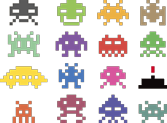
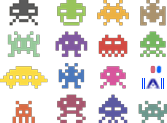
fix bug and add score

Changed region(s): [[0.8084, 0.6098, 1.0, 0.7317], [0.8982, 0.5122, 0.988, 0.6098]]

diff --git a/dist/scripts/scripts.js b/dist/scripts/scripts.js
@@ -8,17 +8,28 @@ require('./game/main');
 var Bullet;
 
 Bullet = (function() {
-  function Bullet(pos, gravity) {
+  function Bullet(pos, gravity, where) {
+    var iconEnemyBullet, iconPlayerBullet;
     this.pos = pos;
     this.gravity = gravity;
     this.size = {
       width: 3,
       height: 6
     };
-    this.icon = {
+    iconEnemyBullet = {
       x: 152,
       y: 65
     };
+    iconPlayerBullet = {
+      x: 157,
+      y: 65
+    };
+    if (where === "Player") {
+      this.icon = iconPlayerBullet;
+    }
+    if (where === "Enemy") {
+      this.icon = iconEnemyBullet;
+    }
   }
 
   Bullet.prototype.update = function() {
@@ -44,7 +55,7 @@ Bullet = require("./bullet");
 
 Enemy = (function() {
   function Enemy(data, pos, size, ind) {
-    var icon, length, randomIcons;
+    var icon, randomIcons;
     this.data = data;
     this.pos = pos;
     this.size = size;
@@ -53,9 +64,6 @@ Enemy = (function() {
     this.speed = 1;
     randomIcons = [
       icon = {
-        x: 9,
-        y: 0
-      }, icon = {
         x: 57,
         y: 0
       }, icon = {
@@ -78,8 +86,7 @@ Enemy = (function() {
         y: 30
       }
     ];
-    length = Math.floor(Math.random() * randomIcons.length);
-    this.icon = randomIcons[length];
+    this.icon = randomIcons[Math.floor(Math.random() * randomIcons.length)];
   }
 
   Enemy.prototype.update = function() {
@@ -102,12 +109,12 @@ Enemy = (function() {
     if (Math.random() < 0.04 && !this.isLower(this)) {
       bulletCoors = {
         x: this.pos.x + this.size.width / 2,
-        y: this.pos.y + this.size.height / 2 + this.size.height / 2
+        y: this.pos.y + this.size.height / 2 + this.size.height / 2 + 1
       };
       bullet = new Bullet(bulletCoors, {
         speed: 3,
         dir: true
-      });
+      }, 'Enemy');
       return this.data.objects.push(bullet);
     }
   };
@@ -121,11 +128,15 @@ module.exports = Enemy;
 
 },{"./bullet":2}],4:[function(require,module,exports){
 'use strict';
-var Enemy, InitGame, Player;
+var Bullet, Enemy, InitGame, Player, Score;
 
 Player = require("./player");
 
 Enemy = require('./enemy');
+
+Score = require("./score");
+
+Bullet = require("./bullet");
 
 InitGame = (function() {
   function InitGame(screen) {
@@ -136,6 +147,7 @@ InitGame = (function() {
       y: this.screen.height
     };
     this.objects = [];
+    this.stopAnimation = false;
     this.icons = new Image;
     this.icons.src = './images/icons.png';
   }
@@ -143,17 +155,31 @@ InitGame = (function() {
   InitGame.prototype.start = function() {
     return this.icons.onload = (function(_this) {
       return function() {
-        _this.objects.push(new Player(_this));
-        _this.addEnemies();
+        _this.addObjects();
         return _this.tick();
       };
     })(this);
   };
 
+  InitGame.prototype.addObjects = function() {
+    this.objects.push(new Score(this));
+    this.objects.push(new Player(this));
+    return this.addEnemies();
+  };
+
   InitGame.prototype.tick = function() {
-    this.update();
-    this.draw();
-    return requestAnimationFrame(this.tick.bind(this));
+    if (!this.stopAnimation) {
+      this.update();
+      this.draw();
+      return requestAnimationFrame(this.tick.bind(this));
+    } else {
+      return setTimeout((function(_this) {
+        return function() {
+          console.log('stop');
+          return _this.tick();
+        };
+      })(this), 100);
+    }
   };
 
   InitGame.prototype.clean = function() {
@@ -165,7 +191,15 @@ InitGame = (function() {
     notCollision = (function(_this) {
       return function(o1) {
         return _this.objects.filter(function(o2) {
-          return _this.collision(o1, o2);
+          var coll;
+          coll = _this.collision(o1, o2);
+          if (coll && o1 instanceof Enemy) {
+            _this.objects[0].up();
+          }
+          if (coll && o1 instanceof Player) {
+            _this.screen.removeEventListener('click', o1.shoot);
+          }
+          return coll;
         }).length === 0;
       };
     })(this);
@@ -178,11 +212,13 @@ InitGame = (function() {
     });
     if (!win) {
       alert("Поздравляю!!! Вы победили Инопланетных Захватчиков! Но радары засекли еще одну волну! Нажми \"Ok\" чтобы разгромить врага!");
-      location.reload(true);
+      this.addEnemies();
     }
     if (!lose) {
-      alert("К сожалению ваш корабль был разбить суровым натиском инопланетных захватчиков но ты успел эвакуироваться на базу где тебя ждет новый корабль! Нажми \"Ok\" чтобы дать отпор врагу еще раз!");
-      location.reload(true);
+      this.stopAnimation = true;
+      this.objects = [];
+      this.addObjects();
+      this.stopAnimation = false;
     }
     return this.objects.forEach((function(_this) {
       return function(item, i) {
@@ -201,9 +237,16 @@ InitGame = (function() {
     this.clean();
     return this.objects.forEach((function(_this) {
       return function(obj) {
+        if (obj instanceof Score) {
+          _this.ctx.fillStyle = "rgba(255, 255, 255, 1)";
+          _this.ctx.font = obj.font;
+          _this.ctx.fillText(obj.text, obj.pos.x, obj.pos.y);
+        }
         _this.ctx.fillStyle = "rgba(0, 0, 0, 0)";
         _this.ctx.fillRect(obj.pos.x, obj.pos.y, obj.size.width, obj.size.height);
-        return _this.ctx.drawImage(_this.icons, obj.icon.x, obj.icon.y, obj.size.width, obj.size.height, obj.pos.x, obj.pos.y, obj.size.width, obj.size.height);
+        if (obj.icon) {
+          return _this.ctx.drawImage(_this.icons, obj.icon.x, obj.icon.y, obj.size.width, obj.size.height, obj.pos.x, obj.pos.y, obj.size.width, obj.size.height);
+        }
       };
     })(this));
   };
@@ -243,7 +286,11 @@ InitGame = (function() {
   };
 
   InitGame.prototype.collision = function(o1, o2) {
-    return !(o1 === o2 || o1.pos.x + o1.size.width < o2.pos.x || o1.pos.y + o1.size.height / 2 < o2.pos.y - o2.size.height / 2 || o1.pos.x > o2.pos.x + o2.size.width || o1.pos.y - o1.size.height / 2 > o2.pos.y + o2.size.height / 2);
+    if (o1 instanceof Score || o2 instanceof Score) {
+
+    } else {
+      return !(o1 === o2 || o1.pos.x + o1.size.width < o2.pos.x || o1.pos.y + o1.size.height < o2.pos.y || o1.pos.x > o2.pos.x + o2.size.width || o1.pos.y > o2.pos.y + o2.size.height);
+    }
   };
 
   return InitGame;
@@ -253,7 +300,7 @@ InitGame = (function() {
 module.exports = InitGame;
 
 
-},{"./enemy":3,"./player":6}],5:[function(require,module,exports){
+},{"./bullet":2,"./enemy":3,"./player":6,"./score":7}],5:[function(require,module,exports){
 'use strict';
 var Game, game, gameScreen;
 
@@ -276,6 +323,7 @@ Bullet = require("./bullet");
 Player = (function() {
   function Player(data) {
     this.data = data;
+    this.move = bind(this.move, this);
     this.shoot = bind(this.shoot, this);
     this.screenWidth = this.data.scrSize.x - 40;
     this.size = {
@@ -291,7 +339,8 @@ Player = (function() {
       y: 75
     };
     this.x = this.pos.x;
-    this.conrtoller();
+    this.data.screen.addEventListener("mousemove", this.move);
+    this.data.screen.addEventListener("click", this.shoot);
   }
 
   Player.prototype.update = function() {
@@ -313,17 +362,12 @@ Player = (function() {
     }, {
       speed: 4,
       dir: false
-    });
+    }, 'Player');
     return this.data.objects.push(bullet);
   };
 
-  Player.prototype.conrtoller = function() {
-    this.data.screen.addEventListener("mousemove", (function(_this) {
-      return function(e) {
-        return _this.x = e.offsetX - _this.size.width / 2;
-      };
-    })(this));
-    return this.data.screen.addEventListener("click", this.shoot);
+  Player.prototype.move = function(event) {
+    return this.x = event.offsetX - this.size.width / 2;
   };
 
   return Player;
@@ -333,4 +377,34 @@ Player = (function() {
 module.exports = Player;
 
 
-},{"./bullet":2}]},{},[1]);
+},{"./bullet":2}],7:[function(require,module,exports){
+'use strict';
+var Score;
+
+Score = (function() {
+  function Score(data) {
+    this.score = 0;
+    this.size = {
+      width: 28,
+      height: 12
+    };
+    this.pos = {
+      x: 0,
+      y: data.scrSize.y - this.size.height + 9
+    };
+    this.font = "bold " + this.size.height + "px Arial";
+    this.text = "Score: " + this.score;
+  }
+
+  Score.prototype.up = function() {
+    return this.text = "Score: " + (++this.score);
+  };
+
+  return Score;
+
+})();
+
+module.exports = Score;
+
+
+},{}]},{},[1]);

diff --git a/dist/styles/app.min.css b/dist/styles/app.min.css
@@ -1,1 +1,1 @@
-button[disabled],html,html input[disabled]{cursor:default}*,input[type=checkbox],input[type=radio]{box-sizing:border-box}*{margin:0;padding:0}article,aside,details,figcaption,figure,footer,header,hgroup,main,nav,section,summary{display:block}audio,canvas,progress,video{display:inline-block;vertical-align:baseline}audio:not([controls]){display:none;height:0}[hidden],template{display:none}html{font-family:sans-serif;-ms-text-size-adjust:100%;-webkit-text-size-adjust:100%;-webkit-tap-highlight-color:transparent;-webkit-focus-ring-color:rgba(255,255,255,0)}body{font-size:100%;line-height:1;-moz-osx-font-smoothing:grayscale;-webkit-font-smoothing:antialiased;background:#4c5151}a{background:0 0}:active,:focus,:hover{outline:0}hr{box-sizing:content-box;height:0}ol,ul{list-style:none}pre{tab-size:4;white-space:pre-wrap}q{quotes:'\201C' '\201D' '\2018' '\2019'}img{border:0}svg:not(:root){overflow:hidden}button,input{line-height:normal}button,select{text-transform:none}button{overflow:visible}button,html input[type=button],input[type=reset],input[type=submit]{-webkit-appearance:button;cursor:pointer}input[type=number]::-webkit-inner-spin-button,input[type=number]::-webkit-outer-spin-button{height:auto}input[type=search]{-webkit-appearance:textfield;box-sizing:content-box}input[type=search]::-webkit-search-cancel-button,input[type=search]::-webkit-search-decoration{-webkit-appearance:none}button::-moz-focus-inner,input::-moz-focus-inner{border:0;padding:0}textarea{overflow:auto;vertical-align:top}button,input,select[multiple],textarea{background-image:none}input,select,textarea{border-radius:0;box-shadow:none}input,textarea{resize:none;-webkit-user-select:text;user-select:text}[placeholder]:focus::-webkit-input-placeholder{color:transparent}[placeholder]:focus::placeholder{color:transparent}table{border-collapse:collapse;border-spacing:0}.wrapper{width:inherit;margin:40px 0 83px;background:#f7f9fa;position:relative}.footer{height:78px}.header{height:43px;margin-left:73px}.header__logo img{margin-top:21.5px}.main,canvas{margin:0 auto}.main{width:500px}canvas{border:1px solid}
+button[disabled],html,html input[disabled]{cursor:default}*,input[type=checkbox],input[type=radio]{box-sizing:border-box}*{margin:0;padding:0}article,aside,details,figcaption,figure,footer,header,hgroup,main,nav,section,summary{display:block}audio,canvas,progress,video{display:inline-block;vertical-align:baseline}audio:not([controls]){display:none;height:0}[hidden],template{display:none}html{font-family:sans-serif;-ms-text-size-adjust:100%;-webkit-text-size-adjust:100%;-webkit-tap-highlight-color:transparent;-webkit-focus-ring-color:rgba(255,255,255,0)}body{font-size:100%;line-height:1;-moz-osx-font-smoothing:grayscale;-webkit-font-smoothing:antialiased;background:#1a1930}a{background:0 0}:active,:focus,:hover{outline:0}hr{box-sizing:content-box;height:0}ol,ul{list-style:none}pre{tab-size:4;white-space:pre-wrap}q{quotes:'\201C' '\201D' '\2018' '\2019'}img{border:0}svg:not(:root){overflow:hidden}button,input{line-height:normal}button,select{text-transform:none}button{overflow:visible}button,html input[type=button],input[type=reset],input[type=submit]{-webkit-appearance:button;cursor:pointer}input[type=number]::-webkit-inner-spin-button,input[type=number]::-webkit-outer-spin-button{height:auto}input[type=search]{-webkit-appearance:textfield;box-sizing:content-box}input[type=search]::-webkit-search-cancel-button,input[type=search]::-webkit-search-decoration{-webkit-appearance:none}button::-moz-focus-inner,input::-moz-focus-inner{border:0;padding:0}textarea{overflow:auto;vertical-align:top}button,input,select[multiple],textarea{background-image:none}input,select,textarea{border-radius:0;box-shadow:none}input,textarea{resize:none;-webkit-user-select:text;user-select:text}[placeholder]:focus::-webkit-input-placeholder{color:transparent}[placeholder]:focus::placeholder{color:transparent}table{border-collapse:collapse;border-spacing:0}.wrapper{width:inherit;margin:40px 0 83px;position:relative}@media screen and (max-width:768px){body{width:400px}}.footer{height:78px}.header{height:43px;margin-left:73px}.header__logo img{margin-top:21.5px}.main,canvas{margin:0 auto}.main{width:500px}canvas{border:1px solid #b50000}

diff --git a/dist/index.html b/dist/index.html
@@ -1,1 +1,1 @@
-<!DOCTYPE html><html lang="en"><head><meta charset="utf-8"><meta name="application-name" content="PEOPLE"><meta name="description" content=""><meta name="keywords" content=""><link href="styles/app.min.css?t=Tue Apr 19 2016 13:28:29 GMT+0300 (RTZ 2 (зима))" rel="stylesheet"><title>PEOPLE</title></head><body><div class="wrapper"><div class="header page-header"><div class="header__logo"></div><div class="header__title"></div><nav class="header__menu"></nav></div><div class="main"><canvas id="game" width="400" height="480"><p>Ваш браузер не поддерживает Canvas.</p></canvas></div><div class="footer"><div class="footer__copyright"></div></div></div><script src="/scripts/vendor.js"></script><script src="/scripts/scripts.js"></script></body></html>
+<!DOCTYPE html><html lang="en"><head><meta charset="utf-8"><meta name="application-name" content="clone Space Invaders"><meta name="description" content=""><meta name="keywords" content=""><link href="styles/app.min.css?t=Sat May 28 2016 11:51:52 GMT+0300 (RTZ 2 (зима))" rel="stylesheet"><title>clone Space Invaders</title></head><body><div class="wrapper"><div class="header page-header"><div class="header__logo"></div><div class="header__title"></div><nav class="header__menu"></nav></div><div class="main"><canvas id="game" width="400" height="480"><p>Ваш браузер не поддерживает Canvas.</p></canvas></div><div class="footer"><div class="footer__copyright"></div></div></div><script src="/scripts/vendor.js"></script><script src="/scripts/scripts.js"></script></body></html>
